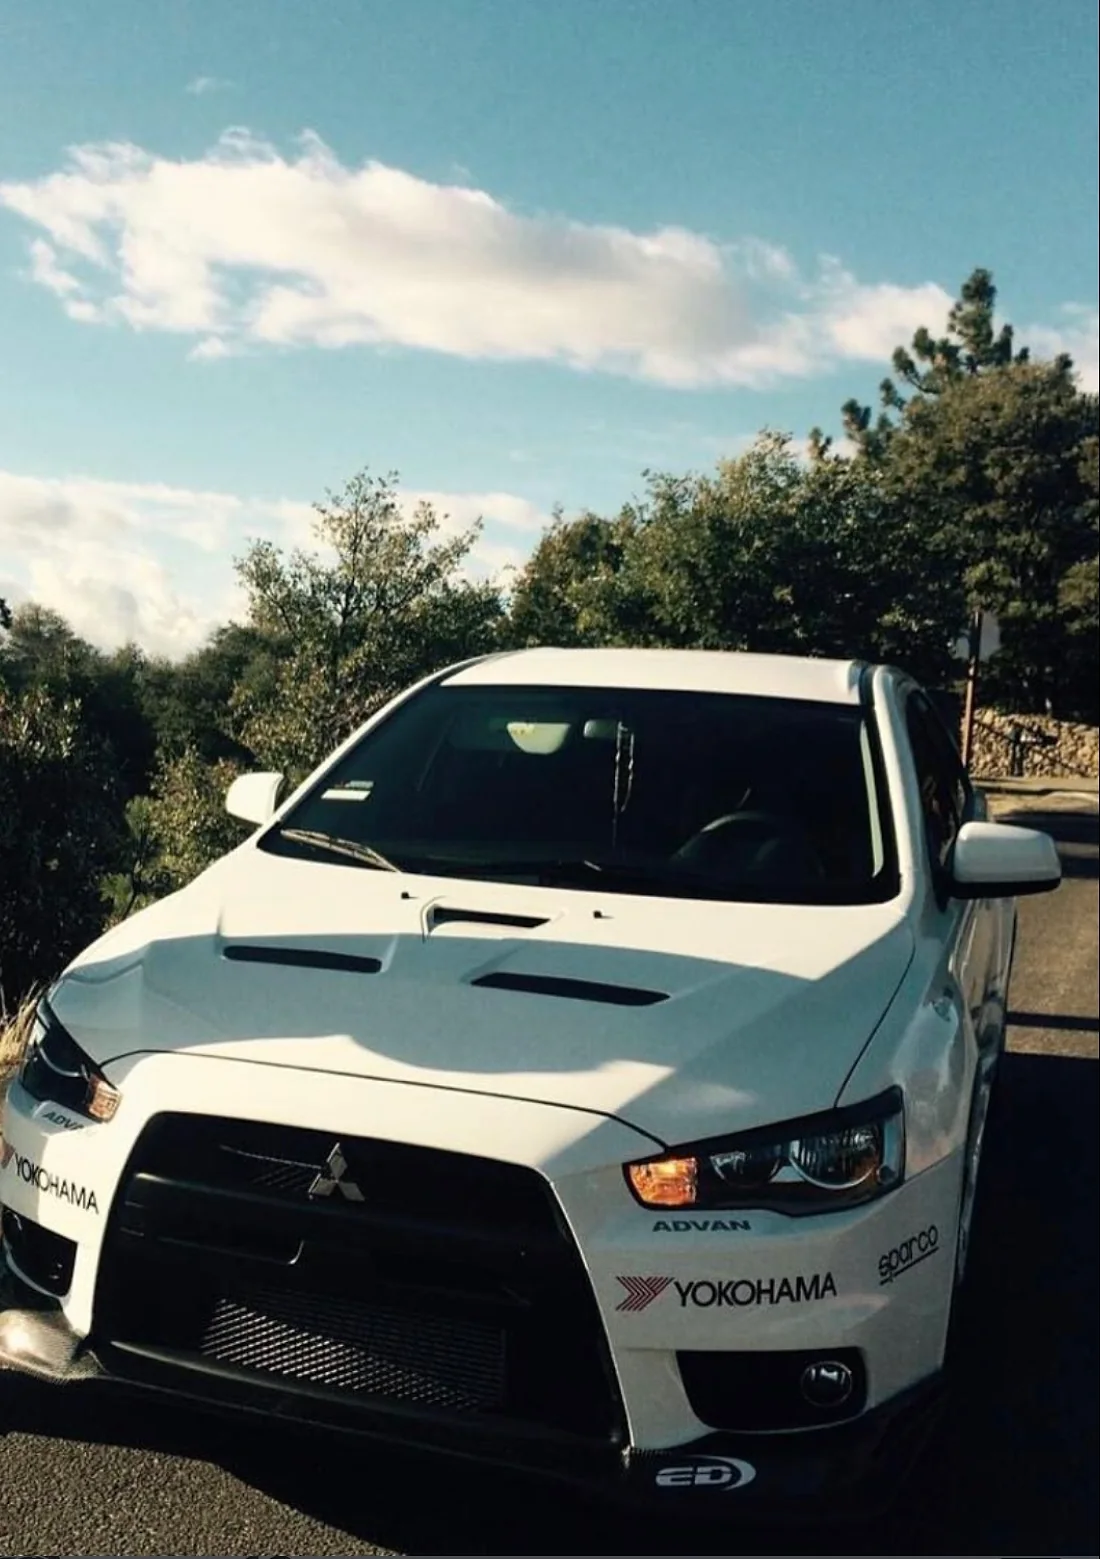
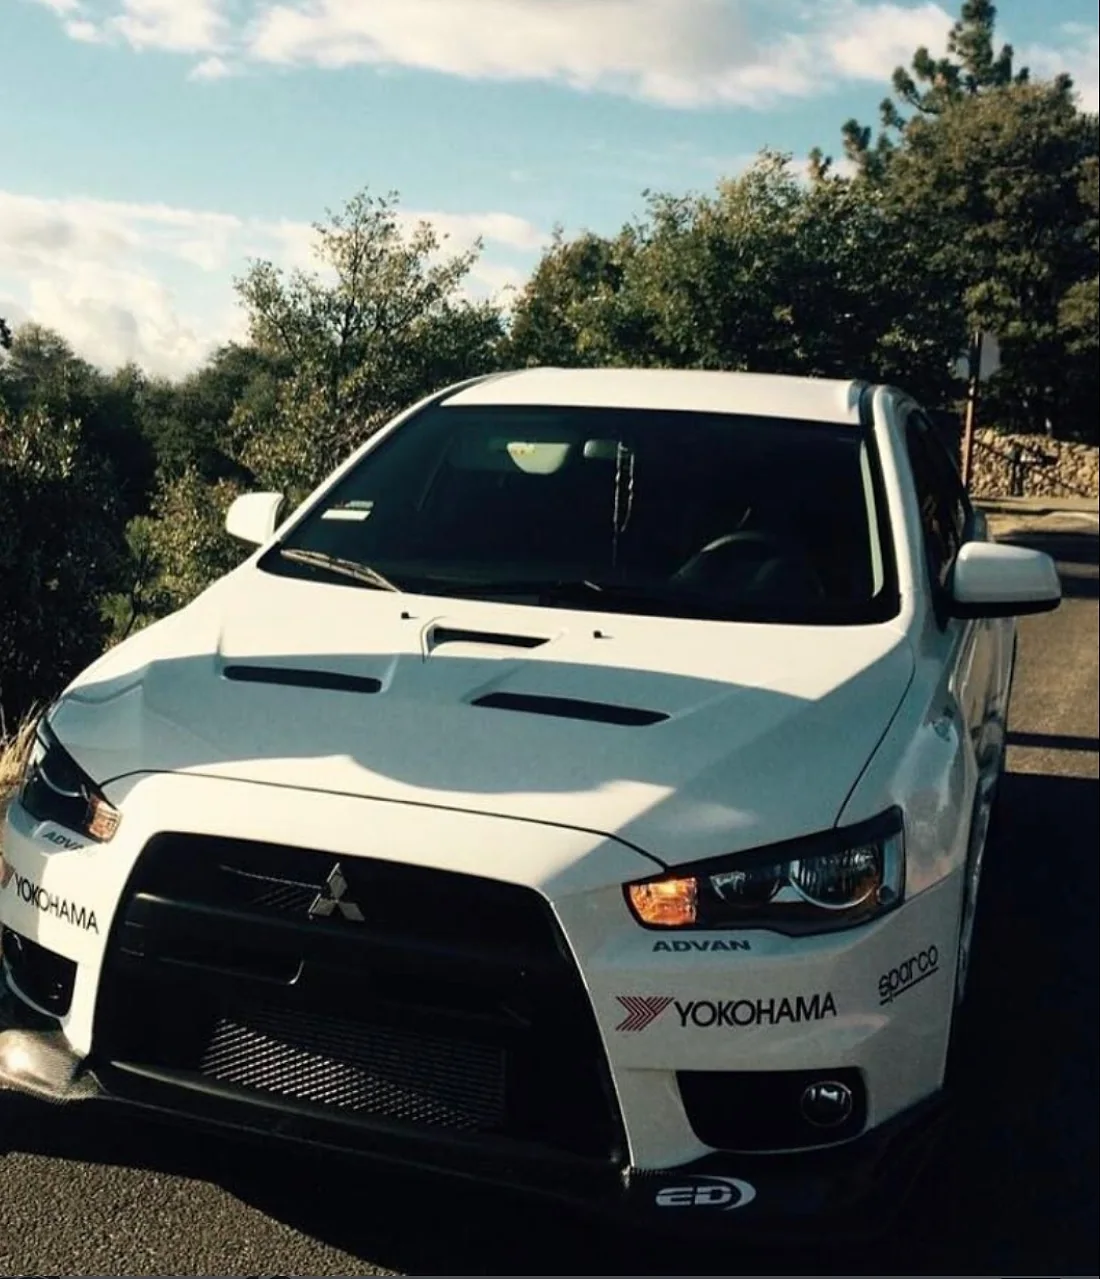
Hold the interface back until the visitor arrives, and reframe the hero
Two changes to the hero, both aimed at the photograph.

Framing: 280px of sky comes off the top in the image pipeline, which lifts the
car towards the middle of the frame and lets it render larger once the section
fits the whole photograph on screen. The panel sits 9% higher than centre so
the front splitter clears the stats strip rather than disappearing behind it.

Intro: on first load the photograph has the screen to itself, centred, with the
interface fading in on the first scroll, tap or key press. The scrims are part
of the veil, so until it lifts the photograph is seen undimmed; the panel then
slides right to make room for the headline and settles out of a slight push-in.
A scroll cue sits in the gutter for as long as the intro lasts, since a bare
photograph gives no sign that there is anything below it.

Hiding follows the same rule as the scroll reveals: it is gated on data-js, so
without JavaScript nothing is ever hidden, and the watchdog in the root layout
clears that flag if the bundle fails to hydrate. The interface also appears on
its own after six seconds, immediately under prefers-reduced-motion, and
immediately when the page loads part-scrolled. The markup ships in the HTML
either way, so this costs nothing in search.

Claude-Session: https://claude.ai/code/session_01L2cNnux4xiLXiurF4ovK5J

diff --git a/app/globals.css b/app/globals.css
@@ -166,6 +166,104 @@ html[data-js="1"] .reveal[data-revealed="true"] {
   transform: none;
 }
 
+/*
+  Hero intro. On first load the photograph stands on its own; the interface
+  fades in on the first scroll, tap or key press (components/ui/HeroIntro.tsx
+  sets the flag). Gated on data-js for the same reason .reveal is — with no
+  JavaScript to bring it back, nothing is ever hidden.
+
+  Only opacity is set here. Each veiled element carries its own transition
+  utilities, because the header already transitions other properties and a
+  shorthand here would win on specificity and wipe them out.
+*/
+html[data-js="1"] .hero-veil {
+  opacity: 0;
+}
+
+html[data-js="1"][data-hero-entered="1"] .hero-veil {
+  opacity: 1;
+}
+
+/* The fade itself, for the veiled elements that transition nothing else. */
+.evo-veil-fade {
+  transition: opacity 1.1s cubic-bezier(0.16, 1, 0.3, 1);
+}
+
+/*
+  The photograph is centred while it has the screen to itself and slides right
+  as the headline arrives, settling out of a slight push-in on the way. Both
+  states are one transform so they interpolate cleanly; the panel is pinned at
+  left: 50%, hence the -50% that does the centring.
+*/
+.hero-panel {
+  transform: translate3d(calc(-50% + 22%), 0, 0) scale(1);
+  transition: transform 1.8s cubic-bezier(0.16, 1, 0.3, 1);
+}
+
+html[data-js="1"]:not([data-hero-entered="1"]) .hero-panel {
+  transform: translate3d(-50%, 0, 0) scale(1.04);
+}
+
+/* A phone crops the photograph rather than fitting it, so there is nowhere to
+   slide it — it just settles out of the same push-in. */
+.hero-frame {
+  transition: transform 1.8s cubic-bezier(0.16, 1, 0.3, 1);
+}
+
+html[data-js="1"]:not([data-hero-entered="1"]) .hero-frame {
+  transform: scale(1.045);
+}
+
+/*
+  Scroll cue. Seen only during the intro, so it is hidden by default and
+  switched on by the same data-js flag that hides everything else — with no
+  JavaScript the interface is already there and the cue would be nonsense.
+*/
+.hero-cue {
+  opacity: 0;
+  visibility: hidden;
+  transition:
+    opacity 0.5s ease,
+    visibility 0s linear 0.5s;
+}
+
+html[data-js="1"]:not([data-hero-entered="1"]) .hero-cue {
+  opacity: 1;
+  visibility: visible;
+  transition:
+    opacity 1.2s ease 0.6s,
+    visibility 0s;
+}
+
+@keyframes evo-cue {
+  0% {
+    transform: scaleY(0);
+    transform-origin: top;
+  }
+  45% {
+    transform: scaleY(1);
+    transform-origin: top;
+  }
+  55% {
+    transform: scaleY(1);
+    transform-origin: bottom;
+  }
+  100% {
+    transform: scaleY(0);
+    transform-origin: bottom;
+  }
+}
+
+.hero-cue-line {
+  animation: evo-cue 2.4s cubic-bezier(0.6, 0, 0.4, 1) infinite;
+}
+
+/* Holds the on-load stagger below until the veil lifts, so the headline rises
+   as it arrives rather than having already played to an invisible element. */
+html[data-js="1"]:not([data-hero-entered="1"]) .rise {
+  animation-play-state: paused;
+}
+
 /* The hero must not wait on JavaScript, so it animates on load instead. */
 @keyframes evo-rise {
   from {
@@ -194,6 +292,24 @@ html[data-js="1"] .reveal[data-revealed="true"] {
   }
 
   .rise {
+    animation: none;
+  }
+
+  html[data-js="1"] .hero-veil {
+    opacity: 1;
+  }
+
+  html[data-js="1"]:not([data-hero-entered="1"]) .hero-frame {
+    transform: none;
+  }
+
+  .hero-panel,
+  html[data-js="1"]:not([data-hero-entered="1"]) .hero-panel {
+    transform: translate3d(calc(-50% + 22%), 0, 0);
+    transition: none;
+  }
+
+  .hero-cue-line {
     animation: none;
   }
 

diff --git a/components/Hero.tsx b/components/Hero.tsx
@@ -1,6 +1,7 @@
 import Image from "next/image";
 import { bookingHref, siteConfig } from "@/config/site";
 import { CtaLink } from "@/components/ui/CtaLink";
+import { HeroIntro } from "@/components/ui/HeroIntro";
 import { StatsStrip } from "@/components/StatsStrip";
 
 const heroPhoto = "/images/hero/evolution-hero.webp";
@@ -23,7 +24,7 @@ export function Hero() {
         aria-hidden="true"
         fill
         sizes="100vw"
-        className="-z-20 scale-110 object-cover blur-2xl brightness-[0.55]"
+        className="-z-20 scale-110 object-cover blur-3xl brightness-[0.32]"
       />
 
       {/* A phone is close enough to the photograph's own shape to crop it
@@ -34,22 +35,35 @@ export function Hero() {
         fill
         priority
         sizes="100vw"
-        className="-z-10 object-cover object-[41%_50%] md:hidden"
+        className="hero-frame -z-10 object-cover object-[41%_50%] md:hidden"
       />
 
       {/* Wider than that, the frame is kept whole in its own aspect-ratio box —
           which is what lets the mask line up with the edges of the photograph
           rather than with the edges of the viewport. */}
-      <div className="absolute inset-y-0 right-[3%] -z-10 hidden aspect-[1100/1559] max-w-[60%] [mask-image:linear-gradient(to_right,transparent,#000_13%,#000_87%,transparent)] md:block lg:right-[14%]">
+      <div className="hero-panel absolute -top-[9%] bottom-[9%] left-1/2 -z-10 hidden aspect-[1100/1279] [mask-image:linear-gradient(to_right,transparent,#000_13%,#000_87%,transparent)] md:block">
         <Image src={heroPhoto} alt={heroAlt} fill sizes="60vw" className="object-cover" />
       </div>
 
-      {/* See .scrim-* in globals.css for how these are weighted. */}
-      <div aria-hidden="true" className="scrim-bottom absolute inset-0 -z-10" />
-      <div aria-hidden="true" className="scrim-left absolute inset-0 -z-10" />
-      <div aria-hidden="true" className="scrim-top absolute inset-x-0 top-0 -z-10 h-36" />
+      <HeroIntro />
 
-      <div className="evo-container relative pb-8">
+      {/* Seen only during the intro: the photograph alone gives no sign that
+          there is anything below it. */}
+      <div aria-hidden="true" className="hero-cue pointer-events-none absolute inset-x-0 bottom-12 z-10">
+        <div className="evo-container flex flex-col gap-4">
+          <span className="label-micro text-ink/70">Scroll</span>
+          <span className="hero-cue-line block h-14 w-px bg-white/45" />
+        </div>
+      </div>
+
+      {/* See .scrim-* in globals.css for how these are weighted. The scrims are
+          part of the veil so that, before it lifts, the photograph is seen
+          undimmed. */}
+      <div aria-hidden="true" className="hero-veil evo-veil-fade scrim-bottom absolute inset-0 -z-10" />
+      <div aria-hidden="true" className="hero-veil evo-veil-fade scrim-left absolute inset-0 -z-10" />
+      <div aria-hidden="true" className="hero-veil evo-veil-fade scrim-top absolute inset-x-0 top-0 -z-10 h-36" />
+
+      <div className="hero-veil evo-veil-fade evo-container relative pb-8">
         <div className="max-w-4xl">
           <p className="eyebrow rise flex items-center gap-4 text-ink/70">
             <span aria-hidden="true" className="block h-px w-10 bg-white/35" />

diff --git a/components/ui/HeroIntro.tsx b/components/ui/HeroIntro.tsx
@@ -1,0 +1,64 @@
+"use client";
+
+import { useEffect } from "react";
+
+/** Safety net: the interface appears on its own if nobody touches anything. */
+const FALLBACK_MS = 6000;
+
+/**
+ * Holds the interface back on first load so the photograph is seen on its own,
+ * then lets it fade in on the first scroll, tap or key press.
+ *
+ * Renders nothing — it only sets `data-hero-entered` on the root element, and
+ * globals.css does the rest. The hidden state is gated on `data-js` like
+ * .reveal is, so with JavaScript unavailable nothing is ever hidden, and the
+ * watchdog in the root layout clears that flag if this bundle fails to
+ * hydrate. prefers-reduced-motion skips the intro entirely.
+ */
+export function HeroIntro() {
+  useEffect(() => {
+    const root = document.documentElement;
+    const enter = () => {
+      root.dataset.heroEntered = "1";
+    };
+
+    /* Someone arriving at an anchor, or returning to a restored scroll
+       position, has effectively already scrolled. */
+    if (window.scrollY > 0 || window.matchMedia("(prefers-reduced-motion: reduce)").matches) {
+      enter();
+      return;
+    }
+
+    /* Deliberately broad. Between them these cover a wheel, a trackpad, a
+       touch, a click and a key press on every browser worth naming; the first
+       one to fire wins and the rest are torn down. */
+    const events = [
+      "wheel",
+      "touchstart",
+      "touchend",
+      "pointerdown",
+      "mousedown",
+      "click",
+      "keydown",
+      "scroll",
+    ] as const;
+    let timer = 0;
+
+    const cleanup = () => {
+      window.clearTimeout(timer);
+      for (const event of events) window.removeEventListener(event, onEvent);
+    };
+
+    function onEvent() {
+      enter();
+      cleanup();
+    }
+
+    timer = window.setTimeout(onEvent, FALLBACK_MS);
+    for (const event of events) window.addEventListener(event, onEvent, { passive: true });
+
+    return cleanup;
+  }, []);
+
+  return null;
+}

diff --git a/components/Navbar.tsx b/components/Navbar.tsx
@@ -43,7 +43,7 @@ export function Navbar() {
 
   return (
     <header
-      className={`fixed inset-x-0 top-0 z-50 border-b transition-[background-color,border-color,backdrop-filter] duration-500 ${
+      className={`hero-veil fixed inset-x-0 top-0 z-50 border-b transition-[opacity,background-color,border-color,backdrop-filter] duration-500 ${
         menuOpen
           ? "border-line bg-bg"
           : scrolled

diff --git a/README.md b/README.md
@@ -141,6 +141,13 @@ docs/                   notes on the images and the brand mark
   rather than an animation library, and is disabled under
   `prefers-reduced-motion`. Content is only hidden when JavaScript is available,
   so the page still reads with scripting off.
+- **Hero intro**: on first load the photograph is shown on its own, and the
+  interface fades in on the first scroll, tap or key press
+  (`components/ui/HeroIntro.tsx`, styles under `.hero-veil` in `globals.css`).
+  It appears on its own after six seconds if nothing happens, it is skipped
+  entirely under `prefers-reduced-motion` or when the page loads part-scrolled,
+  and — like the reveals — nothing is hidden at all without JavaScript. The
+  markup always ships in the HTML, so search engines see the full page.
 - **Structured data** asserts only what has been confirmed: name, city, region,
   Instagram, service area. No phone number, street address, hours, rating or
   review count — those are omitted rather than invented.
